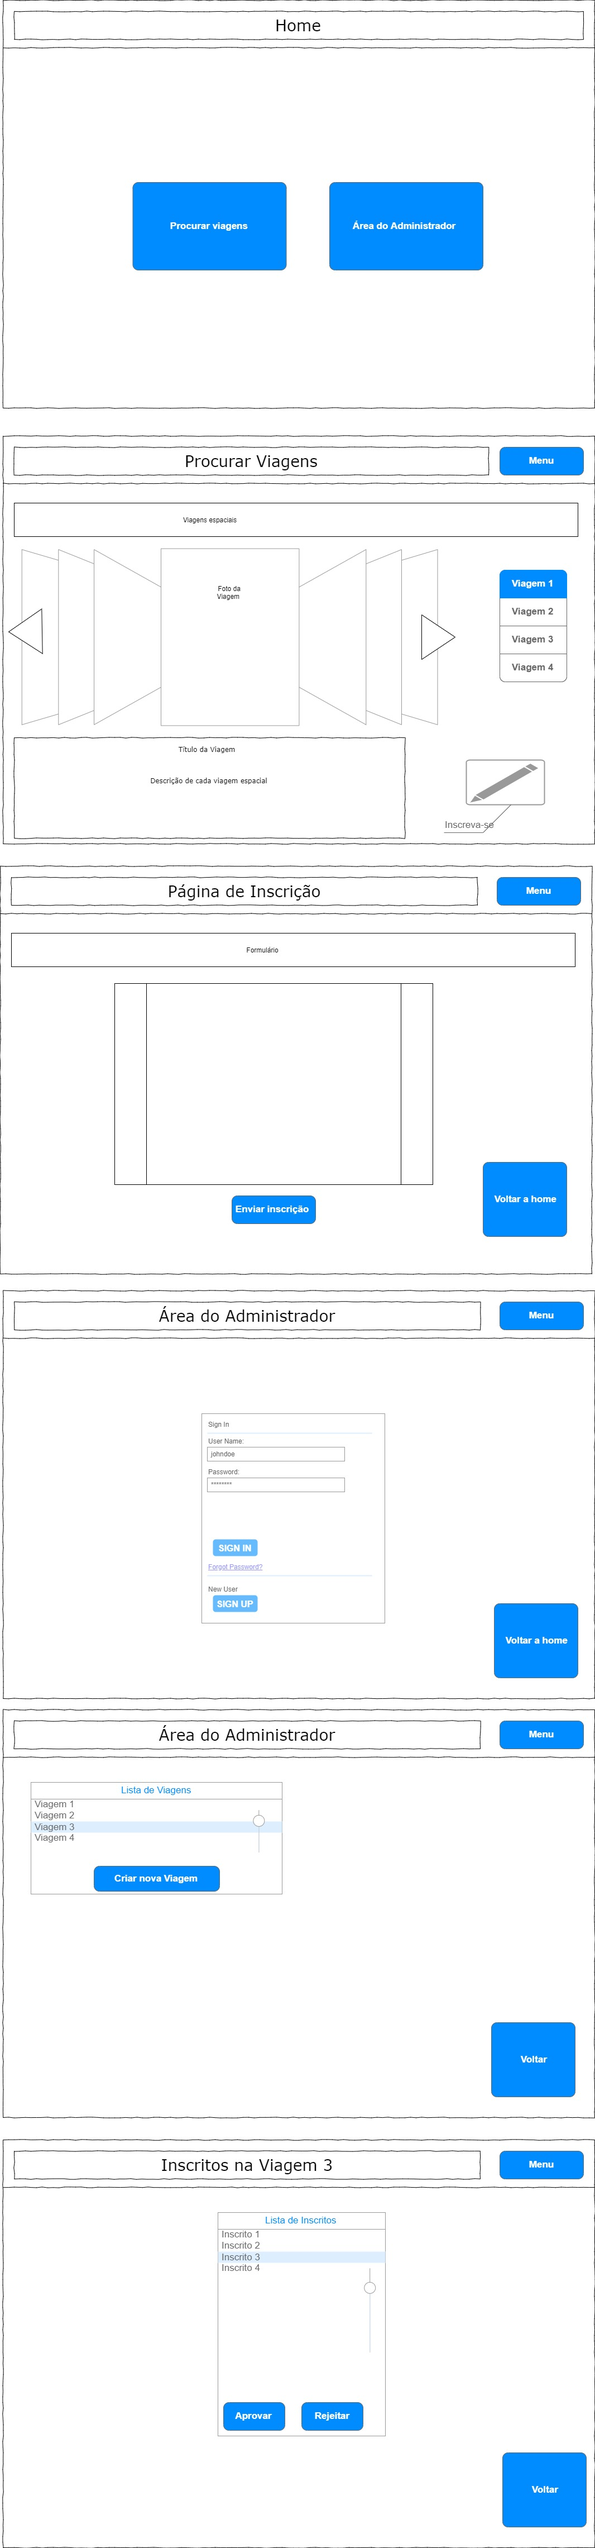
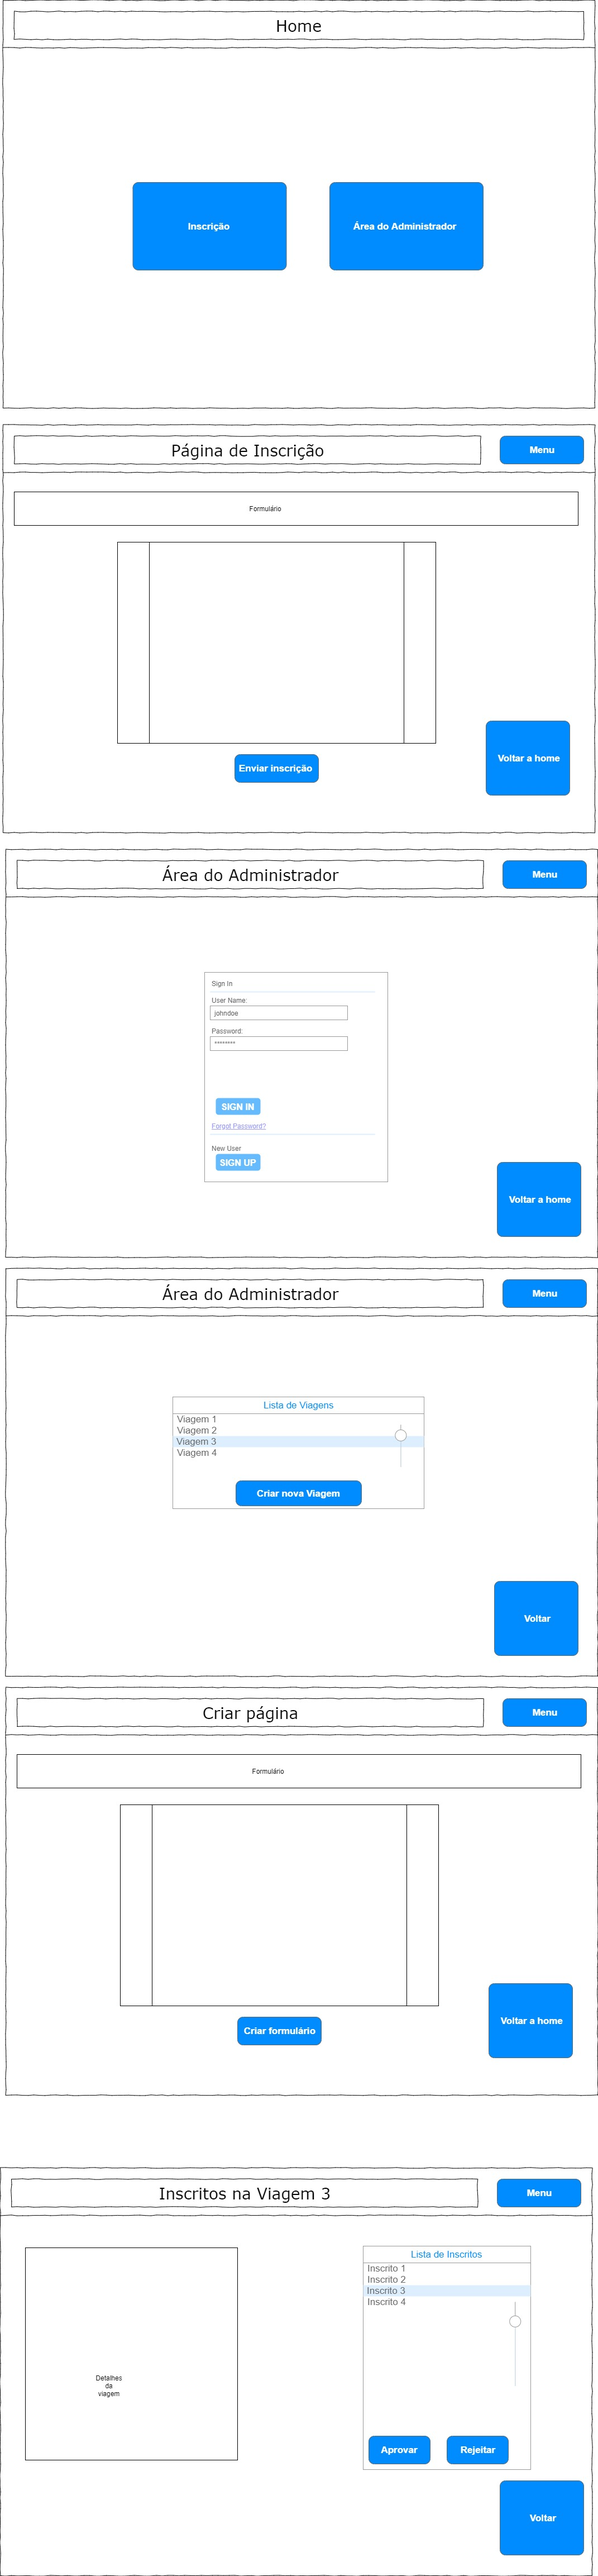
Rotas definidas e mapeada e containers criados

diff --git a/semana8/astroTrip/src/containers/Router/index.js b/semana8/astroTrip/src/containers/Router/index.js
@@ -1,16 +1,20 @@
 import React from "react";
 import { ConnectedRouter } from "connected-react-router";
 import { Switch, Route } from "react-router-dom";
-import LoginPage from "../loginPage/";
+import LoginPage from "../loginPage";
 import HomePage from "../homePage/";
-import ListtripsPage from "../listTripsPage/";
+import ListTripsPage from "../listTripsPage";
 import TripDetailsPage from "../TripDetailsPage/";
+import ApplicationForm from "../applicationForm/";
+import CreateTripPage from "../createTripPage/";
 
 const routes = {
-  root: "/",
-  homePage: "/homepage",
-  listTripsPage: "/listtrippage",
-  tripdetailspage: "/tripdetailspage"
+  homePage: "/", //Para o usuário decidir entre dois botões
+  applicationForm: "/application-form", //Para qualquer usuário poder se increver
+  loginPage: "/login", //Para o usuário fazer o login
+  createTripPage: "/trips/create", //Para criar uma nova viagem
+  listTripsPage: "/trips/list", //Para listar todas as viagens
+  tripdetailspage: "/tripdetailspage" //Para vermos os candidatos de uma viagem
 };
 
 function Router(props) {
@@ -18,9 +22,11 @@ function Router(props) {
     <ConnectedRouter history={props.history}>
       <Switch>
         <Route path={routes.homePage} component={HomePage} />
-        <Route path={routes.listTripsPage} component={ListTripPagePage} />
-        <Route path={routes.tripdetailspage} component={TripDetailsPage} />
-        <Route path={routes.root} component={LoginPage} />
+        <Route path={routes.applicationForm} component={ApplicationForm} />
+        <Route path={routes.loginPage} component={LoginPage} />
+        <Route path={routes.createTripPage} component={CreateTripPage} />
+        <Route path={routes.listTripsPage} component={ListTripsPage} />
+        <Route path={routes.tripDetailsPage} component={TripDetailsPage} />
       </Switch>
     </ConnectedRouter>
   );

diff --git a/semana8/astroTrip/src/containers/LoginPage/index.js b/semana8/astroTrip/src/containers/LoginPage/index.js
@@ -1,9 +1,9 @@
-import React, { Component } from "react";
-import { connect } from "react-redux";
+import React, { Component } from "./node_modules/react";
+import { connect } from "./node_modules/react-redux";
 import { push } from "connected-react-router";
-import TextField from "@material-ui/core/TextField";
-import Button from "@material-ui/core/Button";
-import styled from "styled-components";
+import TextField from "./node_modules/@material-ui/core/TextField";
+import Button from "./node_modules/@material-ui/core/Button";
+import styled from "./node_modules/styled-components";
 
 const LoginWrapper = styled.form`
   width: 100%;

diff --git a/semana8/astroTrip/src/containers/homePage/index.js b/semana8/astroTrip/src/containers/homePage/index.js
@@ -3,10 +3,12 @@ import React from 'react';
 class HomePage extends React.Component {
     render(){
         return (
-            <div>home page</div>
-            <button>list trip page</button>
-            <button>login page</button>
-        )
+            <div>
+                <h2>home page</h2>
+                <button>application page</button>
+                <button>login page</button>
+            </div>
+        );
     }
 }
 

diff --git a/semana8/astroTrip/src/containers/createTripPage/index.js b/semana8/astroTrip/src/containers/createTripPage/index.js
@@ -1,0 +1,14 @@
+import React from './node_modules/react';
+
+class CreateTripPage extends React.Component {
+    render(){
+        return (
+            <div>
+                <h2>Create Trip Page</h2>
+                <button>X</button>
+            </div>
+        );
+    }
+}
+
+export default CreateTripPage;

diff --git a/semana8/astroTrip/src/containers/listTripsPage/index.js b/semana8/astroTrip/src/containers/listTripsPage/index.js
@@ -1,0 +1,14 @@
+import React from './node_modules/react';
+
+class ListTripsPage extends React.Component {
+    render(){
+        return (
+            <div>
+                <h2>List Trip Page</h2>
+                <button>X</button>
+            </div>
+        );
+    }
+}
+
+export default ListTripsPage;

diff --git a/semana8/astroTrip/src/containers/applicationForm/index.js b/semana8/astroTrip/src/containers/applicationForm/index.js
@@ -1,0 +1,13 @@
+import React from './node_modules/react';
+
+class ApplicationForm extends React.Component {
+    render(){
+        return (
+            <div>
+                <h2>Application Form</h2>
+            </div>
+        );
+    }
+}
+
+export default ApplicationForm;
